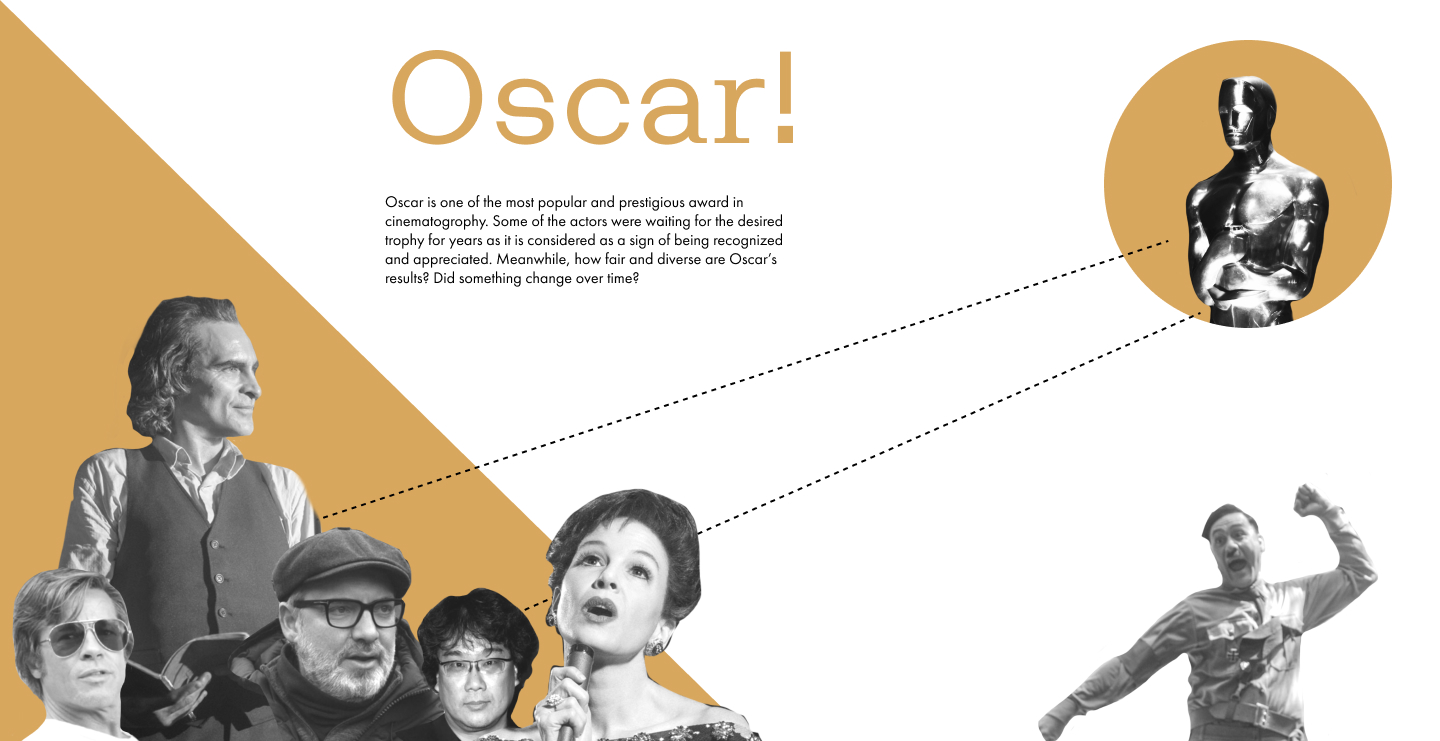
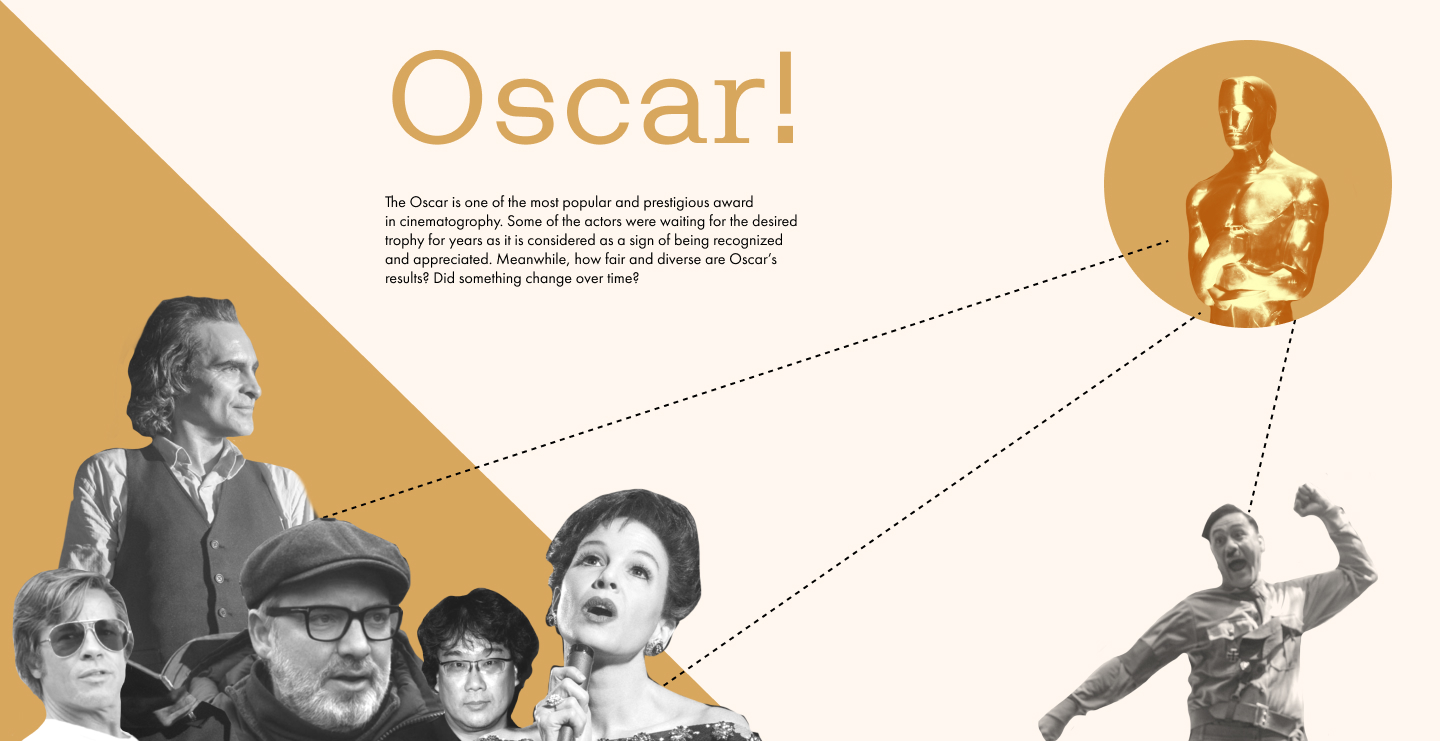
Color fixed, references added

diff --git a/src/dots.js b/src/dots.js
@@ -37,7 +37,7 @@ d3.csv(dfe, function(raw_data) {
     // A color scale
     var color = d3.scaleOrdinal()
       .domain(unique)
-      .range(d3.schemeSet1)
+      .range(d3.schemeTableau10)
     lsvg.selectAll("dots")
       .data(unique)
       .enter()
@@ -218,7 +218,7 @@ d3.csv(dfe, function(raw_data) {
         // A color scale
         color = d3.scaleOrdinal()
           .domain(unique)
-          .range(d3.schemeSet1)
+          .range(d3.schemeTableau10)
 
           simulation = d3.forceSimulation()
               .force("x", d3.forceX().strength(0.03).x( function(d){ return x(d[selected]) } ))
@@ -230,7 +230,7 @@ d3.csv(dfe, function(raw_data) {
         // A color scale
         color = d3.scaleOrdinal()
           .domain(unique)
-          .range(d3.schemeSet1)
+          .range(d3.schemeTableau10)
 
         svg.selectAll("circle")
         // .filter(function(d){return !choices.includes(d.award);})
@@ -290,7 +290,7 @@ d3.csv(dfe, function(raw_data) {
         // A color scale
         color = d3.scaleOrdinal()
           .domain(unique)
-          .range(d3.schemeSet1)
+          .range(d3.schemeTableau10)
 
           simulation = d3.forceSimulation()
               .force("x", d3.forceX().strength(0.03).x( function(d){ return x(d[selected]) } ))

diff --git a/src/index.html b/src/index.html
@@ -13,6 +13,7 @@
     <link rel="stylesheet" href="best-picture.css">
     <link rel="stylesheet" href="best-actor-and-actress.css">
     <link rel="stylesheet" href="./Shortest Speech/style.css">
+
 </head>
 
 <body>
@@ -98,9 +99,10 @@
               </label>
               <label>Best Supporting Actress</label>
             </div>
-            <div id="demographyDropdown"></div>
+              <div id="demographyDropdown" class='demographyDropdown'></div>
           </div>
         </div>
+
         <div class="best_directors" id="best_directors">
             <!-- <div id = "demographyDropdown"></div> -->
             <div>
@@ -268,6 +270,14 @@
                 </div>
 
             </div>
+
+        </div>
+        <div class="references">
+          <p>Authors: Anthony Ngo, Daniel Hsueh, Olga Khvan, Xioashi Dai</p>
+          <span>Data sources:</span><br>
+          <a href="http://awardsdatabase.oscars.org/">Awards Oscars Database</a><br>
+          <a href="https://www.kaggle.com/rounakbanik/the-movies-dataset#movies_metadata.csv">   The movies dataset, Kaggle</a><br>
+          <a href="https://www.imdb.com/interfaces/">IMDB dataset</a>
         </div>
 
         <script src="./index.js"></script>

diff --git a/src/style.css b/src/style.css
@@ -381,7 +381,6 @@ img {
   height: 23px;
   width: 23px;
   background-color: transparent;
-  border-radius: 2px;
   border: 1px solid #D7A764;
 }
 
@@ -429,7 +428,6 @@ img {
     top: 10px;
     width: 0px;
     height: 0px;
-    border-radius: 2px;
     border: 1px solid #D7A764;
     -webkit-transform: scale(0);
     -ms-transform: scale(0);
@@ -441,7 +439,6 @@ img {
     top: -3px;
     width: 24px;
     height: 24px;
-    border-radius: 2px;
     -webkit-transform: scale(1);
     -ms-transform: scale(1);
     transform: scale(1);
@@ -544,7 +541,6 @@ img {
   margin-bottom: 50px;
 }
 
-
 select {
   width: 100%;
   margin: 2px 0;
@@ -565,4 +561,23 @@ select {
 * {
   /* css rule that changes all the fonts on the page */
   font-family: "Futura-Light";
+}
+
+.references {
+  width: 100%;
+  padding-left: 80px;
+  padding-right: 80px;
+  padding-top: 100px;
+  padding-bottom: 50px;
+  color: #000000;
+  background-color: #FFF7EF;
+}
+.references p{
+  color: #000000;
+  letter-spacing: 0px;
+  margin-bottom: 10px;
+}
+
+.references a{
+    color: #D7A764;
 }

diff --git a/src/top10-bar.js b/src/top10-bar.js
@@ -1,5 +1,5 @@
-var margin = {top: 10, right: 30, bottom: 30, left: 150},
-    width = 750,
+var margin = {top: 10, right: 30, bottom: 60, left: 250},
+    width = 850,
     height = 600 - margin.top - margin.bottom;
 
 var year = 1928;
@@ -61,6 +61,14 @@ d3.csv(test, function(data) {
     svg.append('g')
         .attr('transform', 'translate(0, ' + (height) + ')')
         .attr('class', 'x axis');
+
+    svg.append("text")
+        .attr("transform",
+              "translate(" + (width/2) + " ," +
+                             (height + margin.top+30) + ")")
+        .style("text-anchor", "middle")
+        .style("font-size", "12px")
+        .text("IMDb rating");
 
     svg.append('g')
         .attr('class', 'y axis');

diff --git a/src/best-picture.js b/src/best-picture.js
@@ -1,10 +1,10 @@
 const d3 = require("d3");
 const csv = require("./best-picture.csv")
 const circleColors = {
-    "base": "lightblue",
-    "profit": "pink",
-    "profit-no-data": "orange",
-    "opened": "rgb(255, 255, 255)"
+    "base": "#D8A75E",
+    "profit": "#70A8A3",
+    "profit-no-data": "#CC5356",
+    "opened": "#FFF7EF"
 }
 const cicrleMinSize = 10;
 const profitSacleUnit = 10000000;

diff --git a/src/best-actor.js b/src/best-actor.js
@@ -2,9 +2,9 @@ const d3 = require("d3");
 const csv = require("./oscar_demos_mod.csv")
 const palette = {
     "countryLink": "gray",
-    "countryCircle": "lightsteelblue",
+    "countryCircle": "#AB7868",
     "ageLink": "gray",
-    "ageCircle": "orange"
+    "ageCircle": "#D8B74F"
 }
 const textToCircleDist = -100; // for the ageBin and Country need to be < 0
 const ageBinBase = 20

diff --git a/src/best-actress.js b/src/best-actress.js
@@ -2,9 +2,9 @@ const d3 = require("d3");
 const csv = require("./oscar_demos_mod.csv")
 const palette = {
     "countryLink": "gray",
-    "countryCircle": "lightsteelblue",
+    "countryCircle": "#AB7868",
     "ageLink": "gray",
-    "ageCircle": "orange"
+    "ageCircle": "#D8B74F"
 }
 const textToCircleDist = -53; // for the ageBin and Country need to be < 0
 const ageBinBase = 20

diff --git a/src/best-picture.css b/src/best-picture.css
@@ -34,7 +34,7 @@
 }
 
 #best-picture circle {
-    opacity: 80%;
+    opacity: 100%;
 }
 
 #move-overview {
@@ -42,7 +42,7 @@
 }
 
 #best-picture a {
-    color: #75edfe
+    color: #7EDADA
 }
 
 #best-picture-title {

diff --git a/src/best-actor-and-actress.css b/src/best-actor-and-actress.css
@@ -12,11 +12,11 @@
 }
 
 .selected > * {
-    fill: yellow !important;
+    fill: #70A8A3 !important;
 }
 
 .selected.link {
-    stroke: yellow;
+    stroke: #70A8A3;
     fill: none !important;
 }
 
